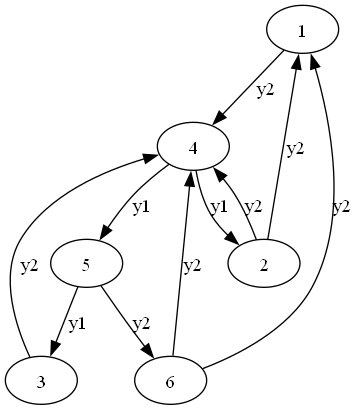
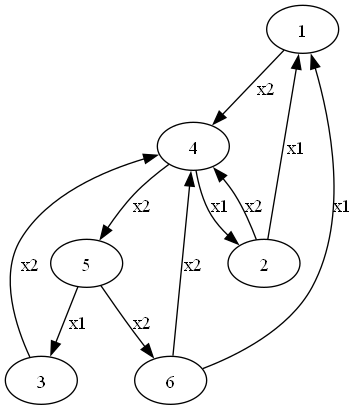
Fix moore graph

diff --git a/labs/lab1/MealyMooreDrawer.ts b/labs/lab1/MealyMooreDrawer.ts
@@ -43,9 +43,7 @@ class MealyMooreDrawer {
           initialStateAndInput.initialState,
           destinationState,
           {
-            label: mooreStateSignals.find(
-              (item) => item.destinationState === destinationState,
-            ).signal,
+            label: initialStateAndInput.inputSymbol,
           },
         );
       }
